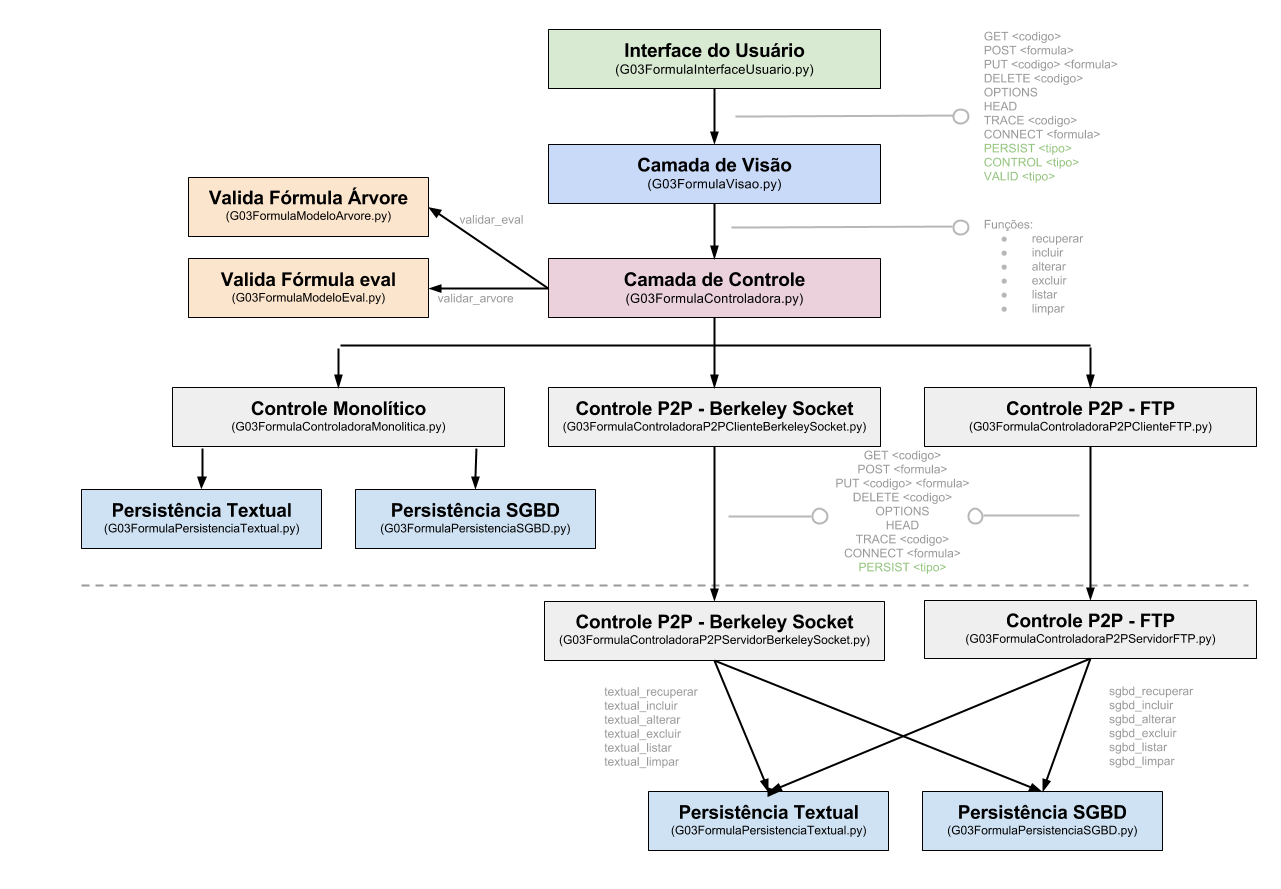
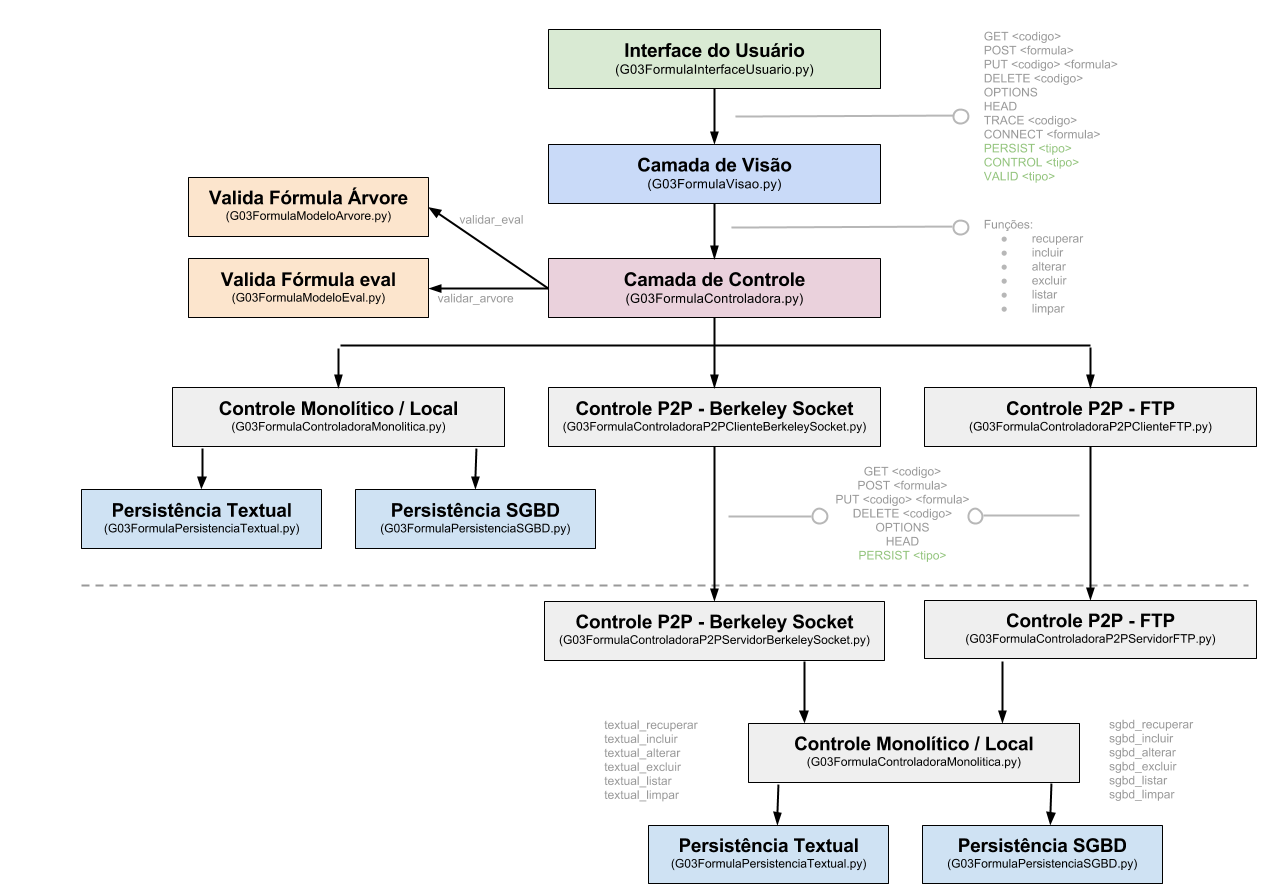
Melhorias/Evolução no Cliente e Servidor Berkeley Socket.

Changed region(s): [[0.4684, 0.7593, 0.9368, 1.0], [0.6557, 0.4859, 0.7494, 0.6378], [0.1561, 0.4556, 0.3747, 0.4859]]

diff --git a/G03FormulaControladoraP2PClienteBerkeleySocket.py b/G03FormulaControladoraP2PClienteBerkeleySocket.py
@@ -1,84 +1,41 @@
-from G03Persistencia_SGBD import *
-import sys
+#!/usr/bin/env python
+# -*- coding: iso-8859-15 -*-
+#
+# Modulo: Cliente Berkeley Socket
+# Descricao: Responsavel por remontar e enviar o comando ao server Berkeley Socket.
+#
 
-comando = ""
-opcoes = ["GET","POST","PUT","DELETE","OPTIONS","HEAD","TRACE","CONNECT","QUIT"]
+import socket
 
-while comando != "QUIT":
-    opcao = raw_input("Entre com a opcao: ")
-    argumentos = opcao.split() # Separa argumentos
-    comando = argumentos[0].upper() # Obtem primeiro argumento: comando
-    
-    if not any(comando in s for s in opcoes):
-        print """
-            Sintaxe:
-                GET <codigo>           # Recuperar
-                POST <formula>         # Incluir
-                PUT <codigo> <formula> # Alterar
-                DELETE <codigo>        # Excluir
-                OPTIONS                # Listar todas
-                HEAD                   # Limpar todas
-                TRACE <codigo>         # Executar formula da base
-                CONNECT <formula>      # Executar formula
-                QUIT 
-        """
-    
-    if comando == "GET":
-        codigo = argumentos[1]
-        formula = recuperar(int(codigo))
-        if formula == None:
-            print "Registro nao existe."
-        else:
-            print "Formula:",formula
-    if comando == "POST":
-        codigo = incluir(opcao[len(comando)+1:])
-        print "Registro incluido. Codigo:", codigo
-    if comando == "PUT":
-        codigo = argumentos[1]
-        formula = opcao[len(comando)+1:][len(codigo)+1:]
-        codigo = alterar(int(codigo), formula)
-        if codigo == None:
-            print "Registro nao existe."
-        else:
-            print "Registro alterado. Codigo:", codigo
-    if comando == "DELETE":
-        codigo = argumentos[1]
-        codigo = excluir(int(codigo))
-        if codigo == None:
-            print "Registro nao existe."
-        else:
-            print "Registro deletado. Codigo:", codigo
-    if comando == "OPTIONS":
-        formulas = listar() 
-        if (formulas): 
-            for formula in formulas:
-                print str(formula[0])+"="+formula[1]
-        else:
-            print "Lista vazia"
-    if comando == "HEAD":
-        formulas = limpar()
-        print "Lista de formulas eliminada."
-    if comando == "TRACE":
-        codigo = argumentos[1]
-        formula = recuperar(int(codigo))
-        if formula == None:
-            print "Registro nao existe."
-        else:
-            if (formula): 
-                try:  
-                    resultado = eval(formula)
-                except:
-                    print "Formula invalida:",formula
-                else:
-                    print resultado
-    if comando == "CONNECT":
-        formula = opcao[len(comando)+1:]
-        if (formula): 
-            try:  
-                resultado = eval(formula)
-            except:
-                print "Formula invalida:",formula
-            else:
-                print resultado
-                
-print "Fim do Programa"
+def __enviar_comando(ModoPersistencia, comando):
+    p2p_server_host = "127.0.0.1"
+    p2p_server_port = 8080
+    p2p_msg_size = 1024
+
+    s = socket.socket(socket.AF_INET, socket.SOCK_STREAM)
+    s.connect((p2p_server_host,p2p_server_port))
+
+    s.send(ModoPersistencia+"|"+comando) # Envia o comando.
+    data = s.recv(p2p_msg_size) # Obtem o resultado do comando
+    print "Dados recebidos:",data
+
+    s.close()
+    return data
+
+def recuperar_berkeley(ModoPersistencia, codigo):
+    return __enviar_comando(ModoPersistencia, "GET "+str(codigo))
+
+def incluir_berkeley(ModoPersistencia, formula):
+    return (ModoPersistencia,"POST "+formula) # Configura modo de persistencia
+
+def alterar_berkeley(ModoPersistencia, codigo, formula):
+    return __enviar_comando(ModoPersistencia,"PUT "+str(codigo)+" "+formula) # Configura modo de persistencia
+
+def excluir_berkeley(ModoPersistencia, formula):
+    return __enviar_comando(ModoPersistencia,"DELETE "+formula) # Configura modo de persistencia
+
+def listar_berkeley(ModoPersistencia):
+    return __enviar_comando(ModoPersistencia,"OPTIONS") # Configura modo de persistencia
+
+def limpar_berkeley(ModoPersistencia):
+    return __enviar_comando(ModoPersistencia,"HEAD") # Configura modo de persistencia

diff --git a/G03FormulaControladora.py b/G03FormulaControladora.py
@@ -1,4 +1,5 @@
 #!/usr/bin/env python
+# -*- coding: iso-8859-15 -*-
 #
 # Modulo: Controladora Geral
 # Descricao: Seleciona, baseado no tipo de controladora e no modo de persistencia
@@ -10,6 +11,7 @@
 from G03FormulaModeloEval import *
 #from G03FormulaModeloArvore import *
 from G03FormulaControladoraMonolitica import *
+from G03FormulaControladoraP2PClienteBerkeleySocket import *
 
 def recuperar (TipoControladora, ModoPersistencia, codigo):
     if TipoControladora == "Monolitica":
